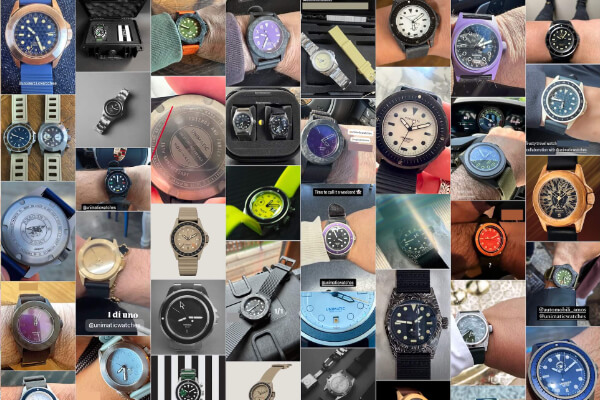
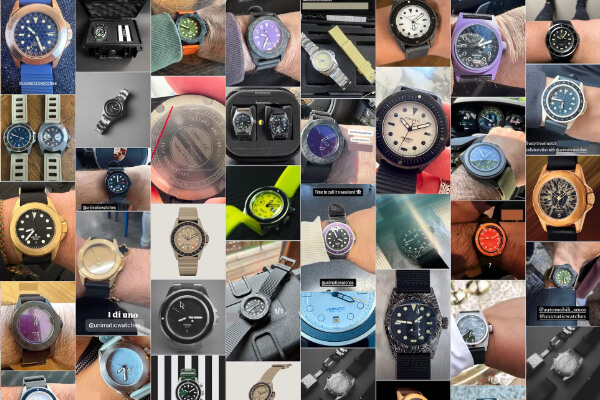
20250812 hnvbgt

Changed region(s): [[0.0, 0.45, 0.15, 0.72], [0.87, 0.81, 1.0, 1.0]]

diff --git a/b050.html b/b050.html
@@ -488,29 +488,8 @@
          </figure>
         <hr>
 
-        <!-- 
-      <h2>U1S in Titanium for FDNY Rescue 1</h2>
 
-       <p>OK, brace yourself, this one is special. Here we have a Unimatic used by a emergency response organization. The unit that ordered these watches is New York City Fire Department Rescue Company 1, also known as Rescue 1.</p>
-
-
-       <p>This is a double-signed watch in titanium, with a date complication. There are only 12 pieces in existence. </p>
-
-
-         <figure>
-           <img src="images/custom-unimatic-22.jpg" alt="custom unimatic watch" class="stoposto" loading="lazy" />
-           <figcaption>Double-signed, in titanium, and used by a FDNY unit. C'mon!</figcaption>
-         </figure>
-
-       <figure>
-           <img src="images/custom-unimatic-21.jpg" alt="xxxxxxxxxx" class="stoposto" loading="lazy" />
-           <figcaption>There are only 12 pieces in existence.</figcaption>
-       </figure>
-        <hr>
-
-        -->
-
-      
+ 
 
 
             <h2>Ghosted Dial Modello Quattro (possibly in solid gold)</h2>
